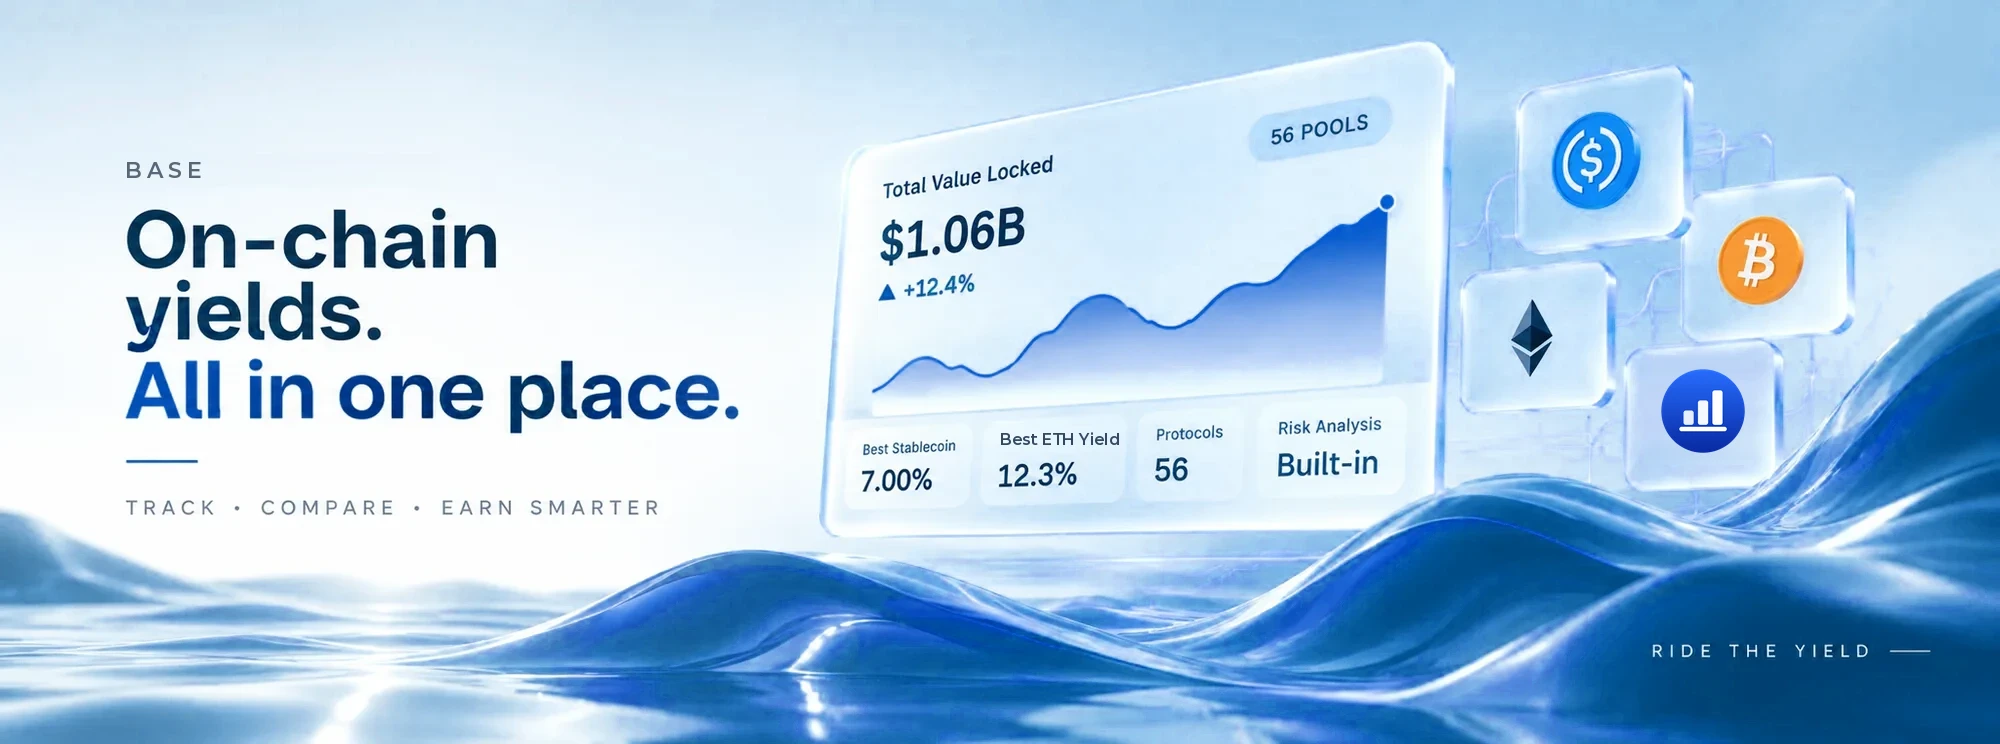
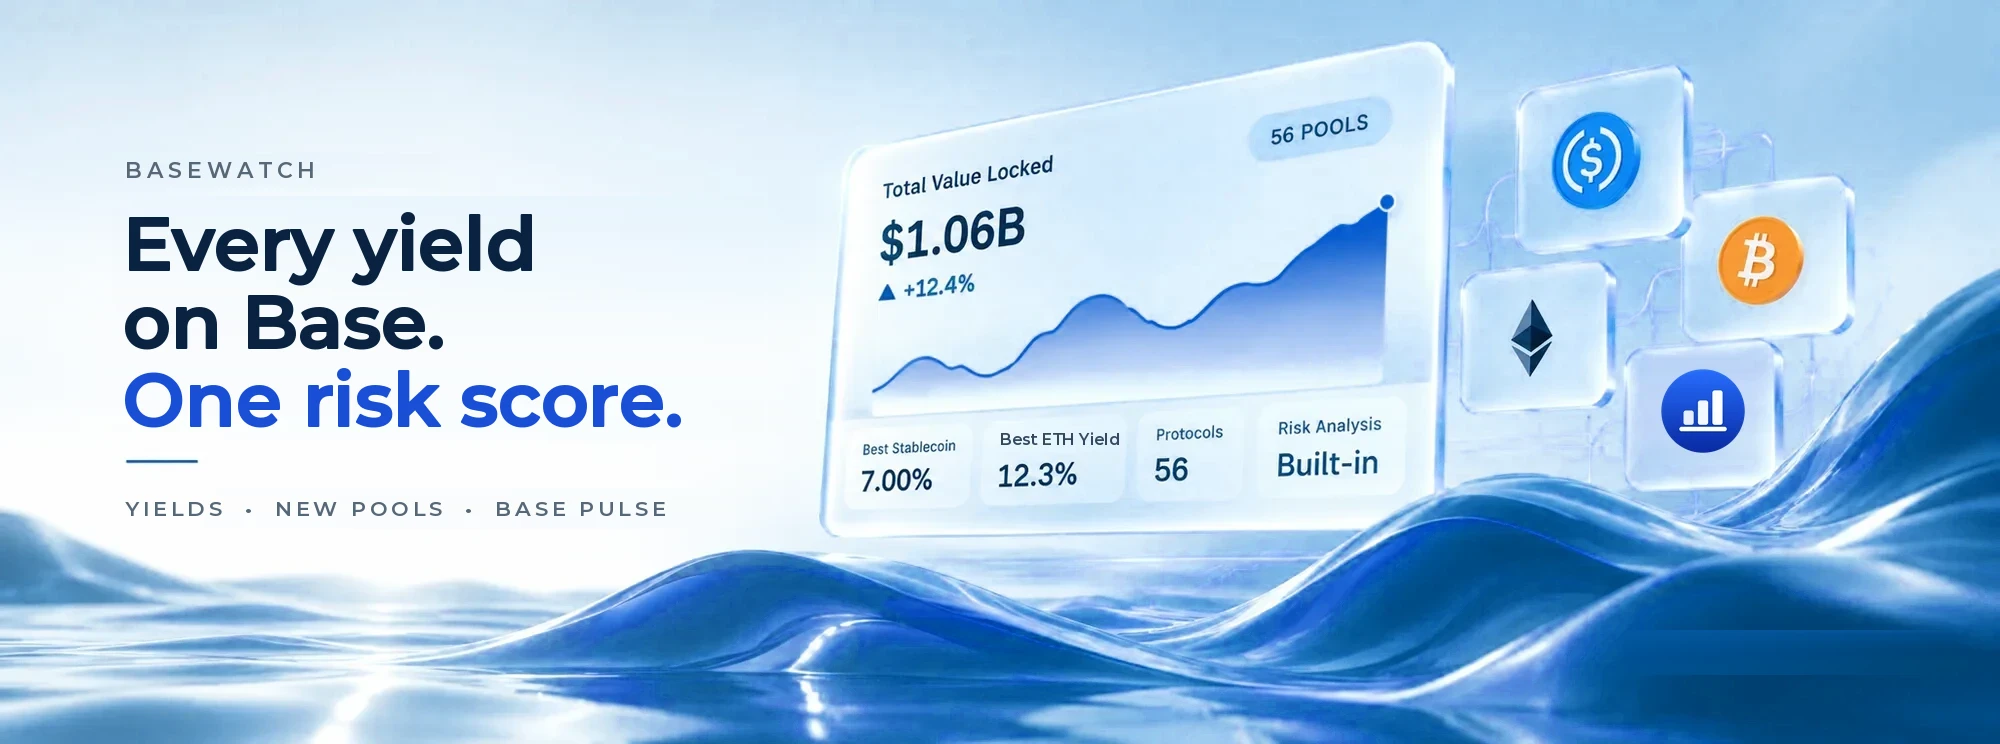
Basewatch's own slogans: new hero and About headings, image texts and share images no longer reuse Tidewatch's lines
Claude-Session: https://claude.ai/code/session_01NbRFfbPrAdUQTrukdZYWKX

diff --git a/about.html b/about.html
@@ -52,12 +52,12 @@
   <header class="pagehead">
     <div>
       <p class="eyebrow">About Basewatch</p>
-      <h1>Same market. A clearer view.</h1>
+      <h1>One chain. Every yield, in plain sight.</h1>
       <p class="lede">Basewatch makes on-chain yield on Base easy to compare, so you can see what your capital could earn and what risk comes with it, in one place.</p>
     </div>
   </header>
 
-  <figure class="headpic widepic"><img src="/assets/brand/banner.webp" alt="Basewatch banner: on-chain yields, all in one place, above rolling waves" width="2000" height="744" loading="lazy"><figcaption>Illustration</figcaption></figure>
+  <figure class="headpic widepic"><img src="/assets/brand/banner.webp" alt="Basewatch banner: every yield on Base, one risk score, above rolling waves" width="2000" height="744" loading="lazy"><figcaption>Illustration</figcaption></figure>
 
   <section class="block" aria-labelledby="princH">
     <div class="sectionhead"><div><p class="eyebrow">What we stand for</p><h2 id="princH">Three principles</h2></div></div>

diff --git a/styles.css b/styles.css
@@ -72,7 +72,7 @@ section{scroll-margin-top:90px}
 .lede{font-size:17px;color:var(--muted);margin:0 0 28px;max-width:46ch}
 .ctas{display:flex;flex-wrap:wrap;gap:12px}
 .btn{appearance:none;display:inline-flex;align-items:center;gap:8px;border:1px solid transparent;font:600 14px/1 var(--body);padding:14px 20px;border-radius:999px;cursor:pointer;text-decoration:none;transition:transform .2s ease, box-shadow .2s ease}
-.btn.primary{background:linear-gradient(135deg,#0A2340 0%,#0D5C73 100%);color:#fff;box-shadow:0 12px 28px -12px rgba(10,35,64,.6)}
+.btn.primary{background:linear-gradient(135deg,#0A2340 0%,#1A4FD6 100%);color:#fff;box-shadow:0 12px 28px -12px rgba(10,35,64,.6)}
 .btn.primary:hover{transform:translateY(-1px);box-shadow:0 16px 34px -12px rgba(10,35,64,.65)}
 .btn.ghost{background:var(--glass-strong);color:var(--ink);border-color:var(--glass-edge)}
 .btn.ghost:hover{background:#fff}

diff --git a/index.html b/index.html
@@ -52,8 +52,8 @@
 
   <header class="hero" id="top">
     <div>
-      <p class="eyebrow">Base · All yields in one place</p>
-      <h1>Ride the <em>yield</em>, not the hype.</h1>
+      <p class="eyebrow">Built for Base</p>
+      <h1>Every yield on <em>Base</em>.<br>One risk score.</h1>
       <p class="lede">Every yield pool on Base, from stablecoins to ETH, ranked by return and weighed by a transparent risk score.</p>
       <div class="ctas">
         <a class="btn primary" href="/yields">Explore live yields</a>
